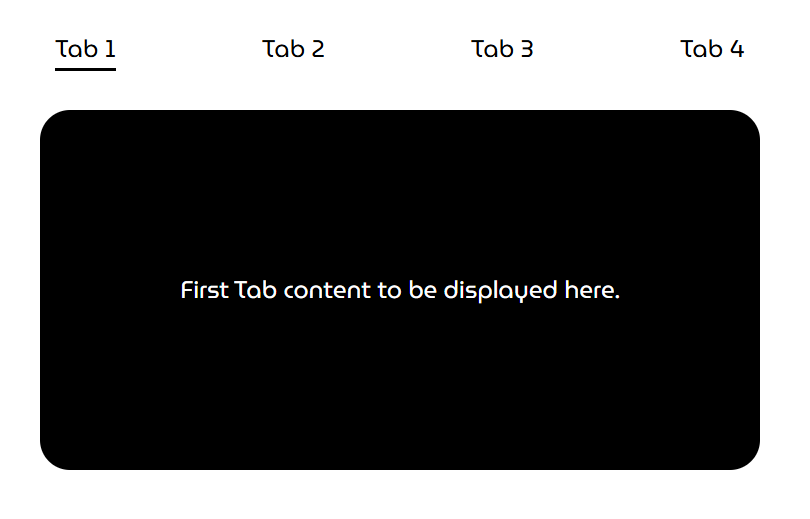
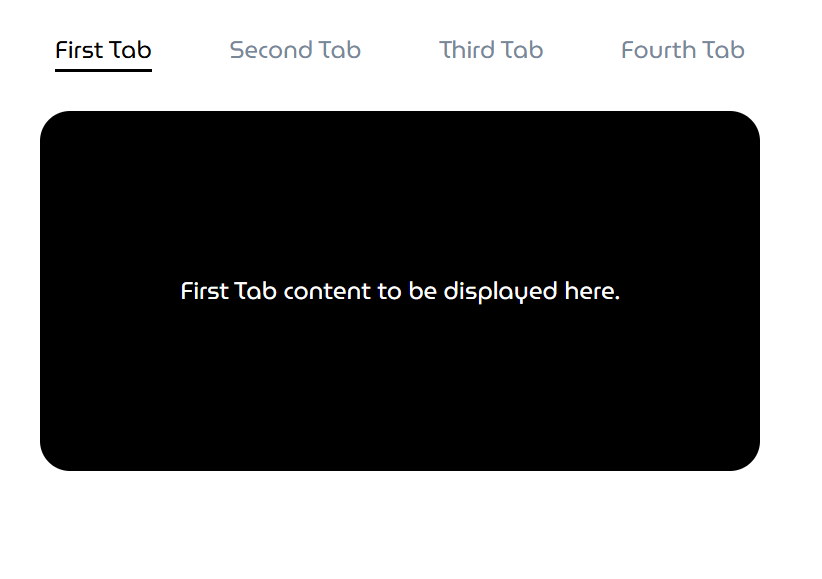
Tabs

diff --git a/frontend/10-simple-tabs/index.html b/frontend/10-simple-tabs/index.html
@@ -3,7 +3,7 @@
 <head>
     <meta charset="UTF-8">
     <meta name="viewport" content="width=device-width, initial-scale=1.0">
-    <title>Tabs</title>
+    <title>Simple Tabs</title>
     <link rel="stylesheet" href="styles.css">
     <link rel="preconnect" href="https://fonts.googleapis.com">
 <link rel="preconnect" href="https://fonts.gstatic.com" crossorigin>
@@ -12,10 +12,10 @@
 <body>
     <div class="content">
         <nav class="navbar">
-            <p id="tab1" class="active">Tab 1</p>
-            <p id="tab2">Tab 2</p>
-            <p id="tab3">Tab 3</p>
-            <p id="tab4">Tab 4</p>
+            <p id="tab1" class="active">First Tab</p>
+            <p id="tab2">Second Tab</p>
+            <p id="tab3">Third Tab</p>
+            <p id="tab4">Fourth Tab</p>
         </nav>
         <section id="tab1-section" class="tab-active">
            First Tab content to be displayed here.

diff --git a/frontend/10-simple-tabs/styles.css b/frontend/10-simple-tabs/styles.css
@@ -10,6 +10,7 @@ body{
 
 .active{
     border-bottom-style:solid;
+    color:black;
 }
 
 .navbar{
@@ -19,8 +20,9 @@ body{
     justify-content:space-between;
 }
 
-.navbar p{
+p{
     cursor:pointer;
+    color:lightslategray;
 }
 
 .tab{

diff --git a/frontend/10-simple-tabs/README.md b/frontend/10-simple-tabs/README.md
@@ -1,4 +1,4 @@
-# Tabs
+# Simple Tabs
 ---
 
 ## Preview
